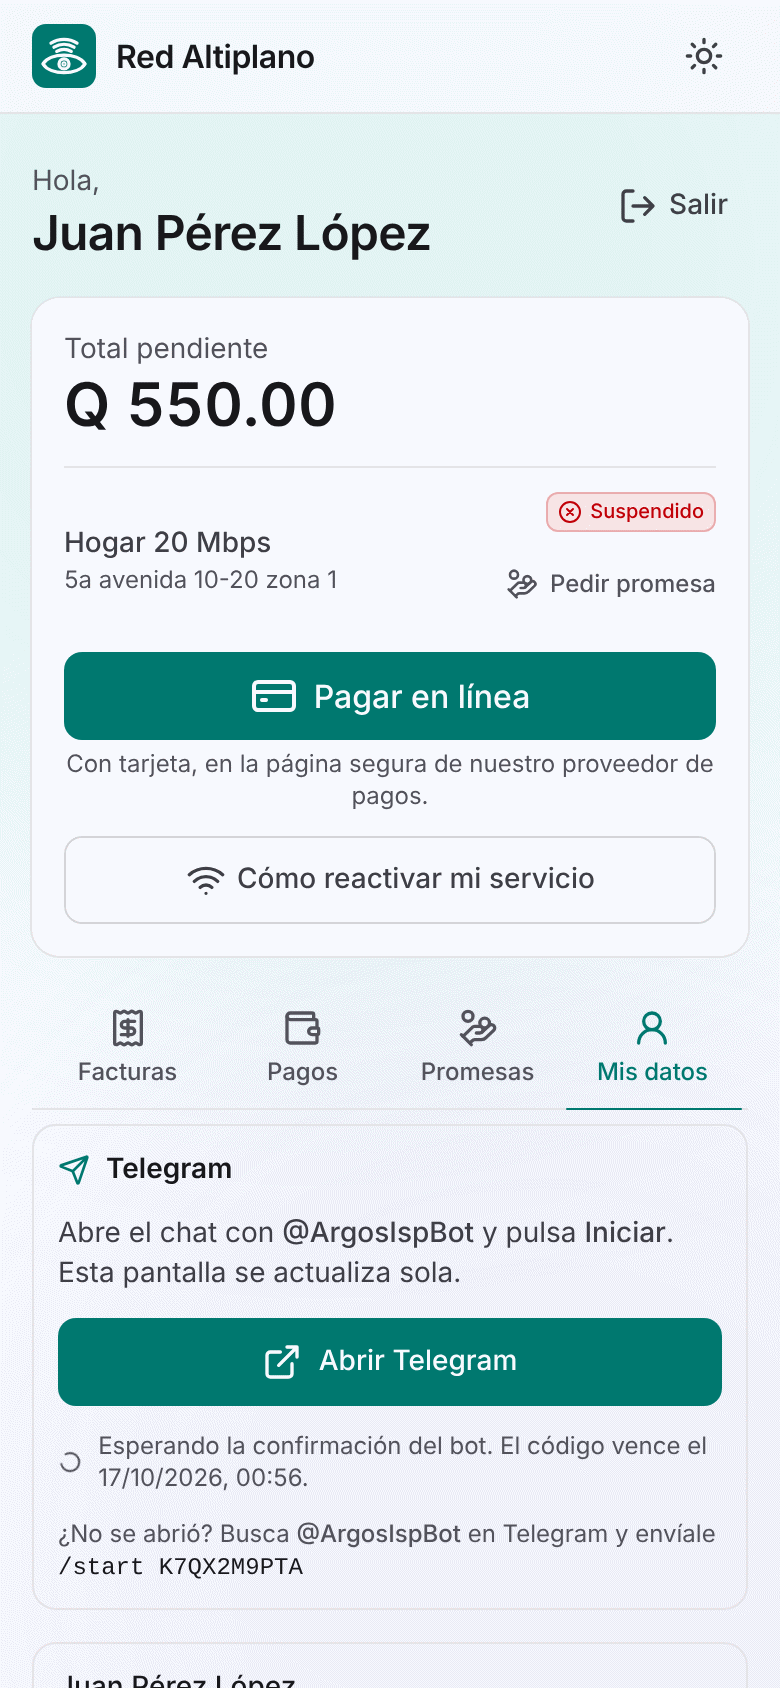
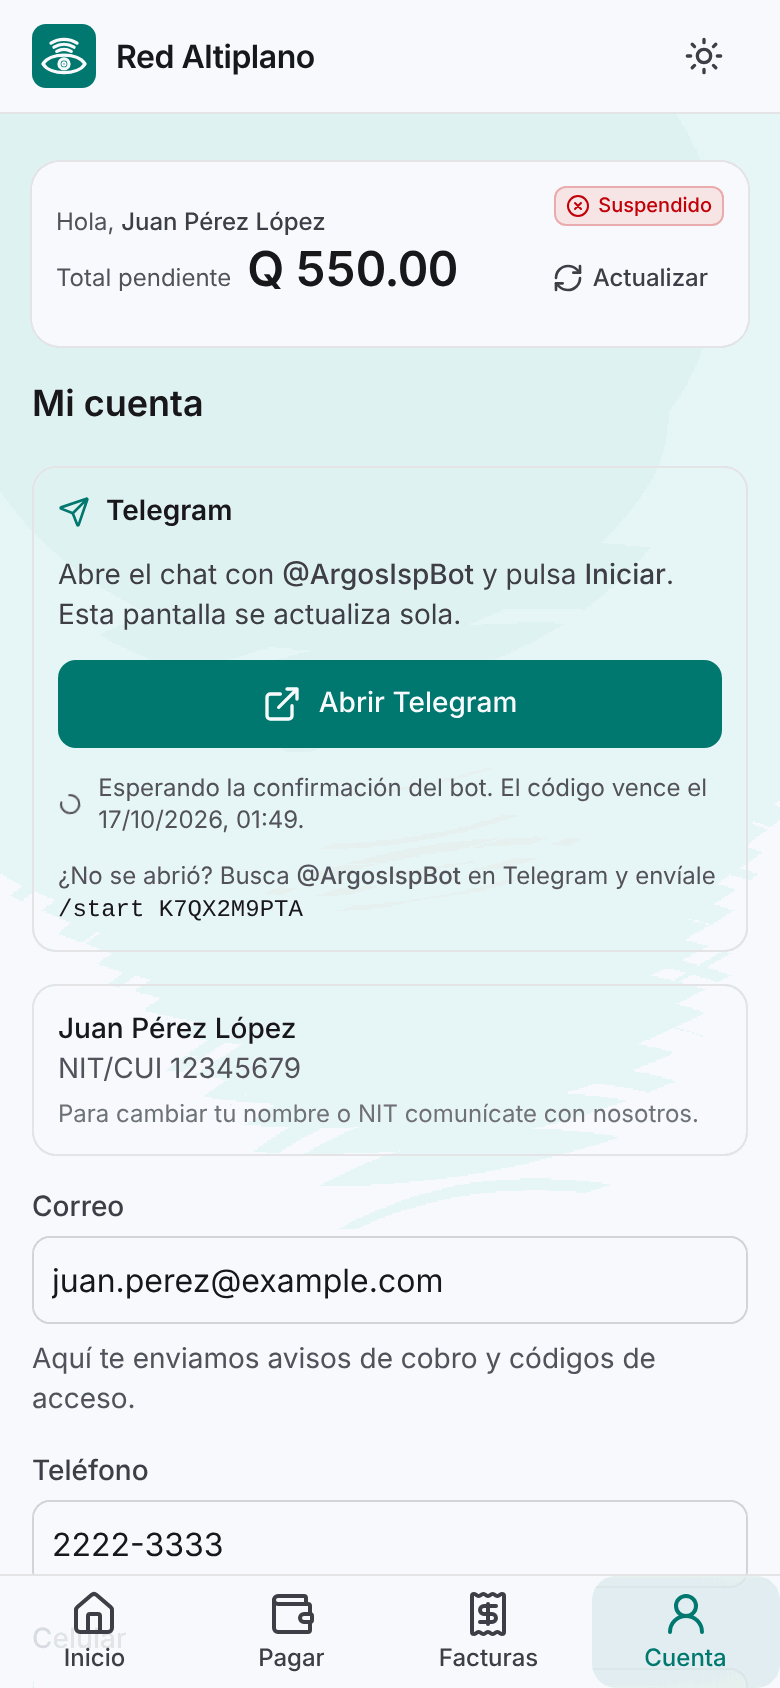
docs(portal): inicio del cliente y PWA en el README; guía con las tarjetas nuevas
README: tabla del dashboard móvil, accesos rápidos, sesión en /corte y
manifiesto PWA. Guía del piloto: textos y capturas con los accesos rápidos
de /corte, la barra de abajo y "Agregar a pantalla de inicio".

Claude-Session: https://claude.ai/code/session_01LR5MgcLBWcMfgyGxrw4PYs

diff --git a/docs/piloto/portal-cliente.md b/docs/piloto/portal-cliente.md
@@ -15,14 +15,20 @@ reconoce por la conexión, sin usuario ni contraseña.
 Ve solo lo necesario: su primer nombre con una inicial, el estado del servicio, el monto pendiente y
 cuántas facturas están vencidas. Nunca su nombre completo, NIT, dirección ni teléfono.
 
-Desde ahí puede:
+Desde ahí puede, con el botón principal y las tarjetas de acceso rápido:
 
-- **Pagar en línea** con tarjeta (si la empresa tiene pasarela; si no, el botón aparece apagado).
+- **Pagar en línea** con tarjeta (si la empresa tiene pasarela; si no, el botón aparece apagado y
+  **Ver datos de depósito** pasa a ser el botón principal).
 - **Ver datos de depósito**: las cuentas de la empresa y las instrucciones de pago, con botón para
   copiar el número.
-- **Subir comprobante de pago** de un depósito o transferencia.
-- **Solicitar promesa de pago** para reactivar ya y pagar después.
-- **Llamar a soporte** con el teléfono configurado en el panel.
+- **Subir comprobante** de un depósito o transferencia.
+- **Prometer pago** para reactivar ya y pagar después. Solo aparece si la promesa se puede pedir
+  ahora (por ejemplo, no aparece si ya tiene una promesa abierta o si su plantilla exige un abono antes).
+- **Mis facturas y pagos**: entra con un código.
+- **Contactar soporte**: llama al teléfono configurado en el panel.
+
+Las tarjetas muestran solo lo que el sistema aceptaría en ese momento: nunca se ofrece algo que luego
+dé error.
 
 <img src="img/02-datos-deposito.png" alt="Datos para depósito con las cuentas de la empresa" width="300">
 
@@ -31,7 +37,7 @@ Las cuentas, el teléfono, el horario y las instrucciones se cambian en el panel
 
 ## 2. Cómo promete pago
 
-1. Toca **Solicitar promesa de pago**.
+1. Toca **Prometer pago**.
 2. El portal muestra los límites antes de enviar: hasta qué día puede prometer y el monto máximo
    (y, si la plantilla lo pide, el abono inicial o si requiere aprobación).
 3. Elige el día y el monto (vienen llenos con la fecha máxima y el saldo vencido) y toca
@@ -56,7 +62,7 @@ panel; el portal no decide nada por su cuenta.
 
 ## 3. Cómo sube un comprobante
 
-1. Toca **Subir comprobante de pago**.
+1. Toca **Subir comprobante**.
 2. Elige cómo pagó (depósito, transferencia, ACH o remesa) y la cuenta a la que pagó.
 3. Escribe el monto, la fecha y el número de boleta o referencia.
 4. Toma una foto con la cámara o elige el archivo (foto JPG, PNG o WebP, o PDF, hasta 5 MB) y toca
@@ -76,18 +82,23 @@ cuando el servicio vuelve.
 
 Telegram sirve para recibir avisos (factura, vencimiento, corte) y el código de acceso al portal.
 
-1. En la página de corte, **Ver mis facturas y pagos** (o entrar al portal y elegir **Entrar**).
+1. En la página de corte, **Mis facturas y pagos** (o entrar al portal y elegir **Entrar**).
 2. Pide el código: le llega al correo registrado (o a Telegram, si ya lo tenía vinculado).
    Escribe los 6 dígitos.
-3. En **Mi cuenta**, pestaña **Mis datos**, toca **Vincular Telegram** y luego **Abrir Telegram**.
+3. En **Mi cuenta** toca **Vincular Telegram** (en el inicio, o en **Cuenta** en la barra de abajo) y
+   luego **Abrir Telegram**.
 4. En Telegram, toca **Iniciar**. La pantalla del portal cambia sola a "Vinculado".
 
 <img src="img/07-entrar-codigo.png" alt="Entrar a mi cuenta con el código de 6 dígitos" width="300">
-<img src="img/08-telegram.png" alt="Vincular Telegram en Mis datos" width="300">
+<img src="img/08-telegram.png" alt="Vincular Telegram en la sección Cuenta" width="300">
 
 Si el enlace no abre Telegram, el portal muestra el mensaje para enviar a mano (`/start` y el
 código). El código vence en unos minutos; se puede pedir otro. Una vez vinculado, puede elegir
-Telegram como canal preferido en la misma pestaña.
+Telegram como canal preferido en la misma sección.
+
+Con la sesión abierta, el portal se usa como una aplicación: barra de abajo con **Inicio**, **Pagar**,
+**Facturas** y **Cuenta**, y se actualiza al jalar hacia abajo (o con **Actualizar**). Desde el menú
+del navegador, **Agregar a pantalla de inicio** deja el ícono del portal en el teléfono.
 
 ## 5. Dudas frecuentes
 

diff --git a/apps/portal/README.md b/apps/portal/README.md
@@ -227,6 +227,23 @@ primaria (una por vista, solo en oscuro). Nunca colores crudos de Tailwind: toke
 Sin `backdrop-filter` (Android viejo) el vidrio pasa a sólido. El tema no agrega peticiones: el logo va
 en línea y no hay fuentes externas. El PDF del aviso de cobro no lleva logo (ver `.claude/integration/a5.md`).
 
+## Inicio del cliente (dashboard móvil) y PWA
+
+| Pieza | Dónde |
+| --- | --- |
+| `/cuenta?seccion=inicio\|pagar\|facturas\|cuenta`: secciones en la URL ("Atrás" vuelve), transición corta apagada con movimiento reducido | `app/pages/cuenta.vue`, `app/utils/navegacion.ts` |
+| Barra inferior de vidrio con sesión (móvil, destinos de 56 × 44 px, `env(safe-area-inset-bottom)` con `viewport-fit=cover`) y barra de secciones centrada en escritorio | `app/components/portal/Navegacion.vue`, `app/layouts/default.vue` |
+| Encabezado compacto: total, estado más urgente y "Actualizar" | `app/components/cuenta/Resumen.vue` |
+| Jalar para actualizar sin dependencias (touch pasivo; "Actualizar" es la alternativa de un toque) | `app/composables/useJalarParaActualizar.ts`, `app/components/portal/JalarParaActualizar.vue` |
+| Accesos rápidos: solo lo que la API aceptaría ahora (tabla en el archivo) | `app/utils/accesos.ts`, `app/components/portal/AccesosRapidos.vue` |
+| Servicios agrupados por empresa (hoy uno; multiempresa cambia solo `agruparPorEmpresa`) | `app/utils/empresas.ts`, `app/components/cuenta/InicioEmpresa.vue` |
+| ¿Hay sesión? Estado compartido + pista `argos:portal:sesion` en `localStorage` (solo `1`): `/corte` pregunta por la cuenta solo si hubo sesión en el dispositivo | `app/composables/useSesionPortal.ts` |
+| Manifiesto PWA (`standalone`, teal, nombre de la empresa), íconos de la marca; sin service worker | `server/routes/manifest.webmanifest.get.ts`, `server/utils/manifiesto.ts`, `public/iconos/` |
+
+Los íconos PNG salen de la marca (`LogoArgos`): cuadro redondeado para `any` y fondo a sangre con el
+ojo en la zona segura para `maskable` y `apple-touch-icon`. El manifiesto y `/iconos/` se sirven
+también con Host ajeno (portal cautivo) y la CSP lleva `manifest-src 'self'`.
+
 ## Datos de la empresa y contacto (configurables desde el panel)
 
 | Pieza | Dónde |
